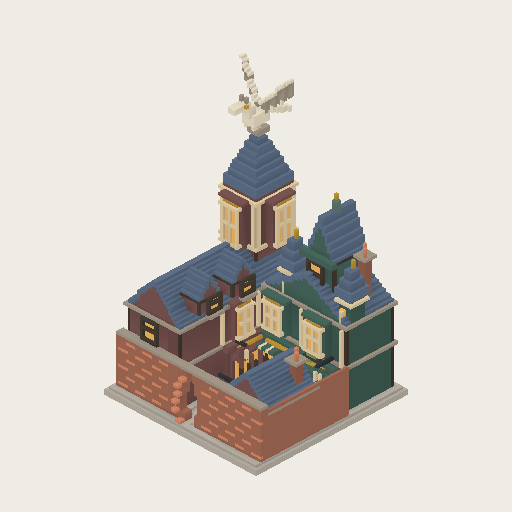
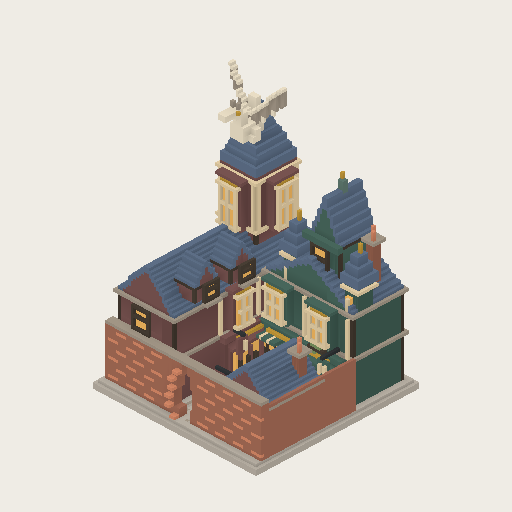
refine(diagon): make dragon cling to spire with roof-following claws and tail

Changed region(s): [[0.1875, 0.0938, 0.8125, 0.9062]]

diff --git a/src/generators/diagonAlley.js b/src/generators/diagonAlley.js
@@ -9,7 +9,7 @@ export function diagonAlleySpec() {
     cap:{type:"gable",heightVoxels:roofHeight,orientation},
     materials:{wall,roof:"slate",trim:"timber",window:"warmWindow"},facade:{enabled:false}
   });
-  const spec=createUrbanMassingSpec({id:DIAGON_ASSET_ID,seed:"diagon-alley-v5",widthCells:2,depthCells:2,
+  const spec=createUrbanMassingSpec({id:DIAGON_ASSET_ID,seed:"diagon-alley-v6",widthCells:2,depthCells:2,
     masses:[shop("wand-shop",-18,-1,22,52,29,"shopWine",12),
       shop("bookshop",12,-19,34,20,31,"shopGreen",10),
       shop("apothecary",21,15,18,20,17,"shopWine",9),
@@ -18,10 +18,13 @@ export function diagonAlleySpec() {
       shop("wine-dormer-middle",-9,0,8,9,5,"shopWine",6,32,"east_west"),
       {...shop("landmark-tower",-18,-19,14,16,28,"shopWine",18,29),
         cap:{type:"spire",heightVoxels:18}} ]});
-  return {...spec,assetId:DIAGON_ASSET_ID,assetRevision:5,footprint:{...spec.footprint,worldWidth:8,worldDepth:8}};
+  return {...spec,assetId:DIAGON_ASSET_ID,assetRevision:6,footprint:{...spec.footprint,worldWidth:8,worldDepth:8}};
 }
 
 export function addDiagonDetails(buffer) {
+  const spireSurface=new Map();
+  for(const v of buffer.voxels.values()) if(v.materialId==="slate"&&v.x>=-25&&v.x<=-12&&v.z>=-27&&v.z<=-12&&v.y>=57)
+    spireSurface.set(`${v.x},${v.z}`,Math.max(spireSurface.get(`${v.x},${v.z}`)??0,v.y));
   const write={priority:VOXEL_WRITE_PRIORITIES.decoration,owner:"diagon:details"};
   const box=(m,x,y,z,w,h,d)=>buffer.addBox(m,x,y,z,w,h,d,0,write);
   // The alley is walkable negative space, not a fourth solid building.
@@ -111,24 +114,32 @@ export function addDiagonDetails(buffer) {
   }
   for(const x of [-25,-12]) box("sandstone",x,40,-11,1,15,1);
   for(const z of [-27,-12]) box("sandstone",-11,40,z,1,15,1);
-  // Perched pale dragon replaces the tiny weather vane. Coarse silhouette
-  // first: feet, belly, raised neck, long muzzle, paired swept wings and tail.
-  box("stoneShadow",-20,75,-21,5,2,5);
-  for(const x of [-20,-17]) box("limestone",x,77,-18,1,3,3);
-  box("limestone",-20,79,-21,5,4,7);
-  box("limestone",-19,82,-16,3,4,3);
-  box("limestone",-19,85,-14,3,3,3);
-  box("limestone",-19,86,-11,3,2,4);
-  for(const x of [-19,-17]) box("stoneShadow",x,88,-13,1,2,1);
-  box("gildedMetal",-16,87,-12,1,1,1);
-  for(let i=0;i<9;i++) {
-    box("limestone",-19+Math.floor(i/4),80-Math.floor(i/3),-22-i,2,2,1);
+  // The dragon hugs the forward slope; there is no pedestal on the peak.
+  // Feet and curling tail follow the actual compiled roof heightfield.
+  box("limestone",-20,67,-18,5,5,8);
+  box("limestone",-19,71,-13,3,5,3);
+  box("limestone",-19,75,-11,3,3,3);
+  box("limestone",-19,76,-8,3,2,4);
+  for(const x of [-19,-17]) box("stoneShadow",x,78,-10,1,2,1);
+  box("gildedMetal",-16,77,-9,1,1,1);
+  for(const x of [-22,-15]) {
+    const footY=(spireSurface.get(`${x},-15`)??60)+1;
+    box("limestone",x,footY,-15,2,2,3);
+    box("limestone",x,footY+2,-15,2,Math.max(1,69-footY),2);
+    box("limestone",Math.min(x,-20),69,-15,Math.abs(x+20)+2,2,2);
+  }
+  const tail=[[-19,-19],[-20,-19],[-21,-19],[-21,-20],[-22,-20],[-23,-20],[-23,-21],[-24,-21],[-24,-22],[-24,-23],[-24,-24],[-23,-24],[-23,-25],[-22,-25],[-21,-25]];
+  let previousY=69;
+  for(const [x,z] of tail) {
+    const y=(spireSurface.get(`${x},${z}`)??57)+1;
+    box("limestone",x,Math.min(y,previousY),z,2,Math.abs(y-previousY)+2,2);
+    previousY=y;
   }
   for(const sign of [-1,1]) for(let i=1;i<=10;i++) {
     const x=-18+sign*i;
-    const y=81+Math.floor(i*.9);
-    const top=83+Math.ceil(i*1.2);
-    const z=-20-Math.floor(i/3);
+    const y=70+Math.floor(i*.9);
+    const top=72+Math.ceil(i*1.2);
+    const z=-16-Math.floor(i/3);
     box("stoneShadow",x,y,z,1,Math.max(1,top-y),1);
     box("limestone",x,top,z,1,1,2);
     if(i===4||i===7) box("limestone",x,y-1,z,1,2,1);
@@ -204,7 +215,7 @@ export function addDiagonDetails(buffer) {
 export function createDiagonAlley({cellWorldSize=4,nightLighting=0}={}) {
   const root=createVoxelMassingLab({spec:diagonAlleySpec(),renderStrategy:"greedy",nightLighting,voxelDetailPass:addDiagonDetails});
   root.name="DiagonAlley";root.scale.setScalar(cellWorldSize/4);
-  root.userData={...root.userData,assetId:DIAGON_ASSET_ID,assetRevision:5,representation:"special-landmark-voxel",
+  root.userData={...root.userData,assetId:DIAGON_ASSET_ID,assetRevision:6,representation:"special-landmark-voxel",
     sphereProjectionRoot:true,footprint:"2x2",entrance:"north",authoredParcelSize:8,voxelSize:.125};
   return root;
 }

diff --git a/test/diagonAlley.test.js b/test/diagonAlley.test.js
@@ -44,8 +44,9 @@ test("partly opening brick wall retains a narrow slit and a clear L-shaped inter
     assert.equal(buffer.getMaterialAt(-4,7,30),"brickRed","opening has displaced brick ends");
     assert.equal(buffer.getMaterialAt(-15,22,24),"shopWine");
     assert.equal(buffer.getMaterialAt(12,25,-10),"shopGreen");
-    assert.equal(buffer.getMaterialAt(-19,86,-9),"limestone","dragon has a long muzzle");
-    for(const x of [-28,-8]) assert.equal(buffer.getMaterialAt(x,95,-23),"limestone","dragon wing tips rise above the head");
+    assert.equal(buffer.getMaterialAt(-19,76,-6),"limestone","dragon has a long muzzle");
+    for(const x of [-28,-8]) assert.equal(buffer.getMaterialAt(x,84,-19),"limestone","lowered wing tips rise above the head");
+    assert.equal(buffer.getMaterialAt(-20,75,-21),null,"old peak pedestal has been removed");
   }});disposeBuildingObject(model);
 });
 

diff --git a/docs/visual-development/diagon-alley-001/README.md b/docs/visual-development/diagon-alley-001/README.md
@@ -1,10 +1,12 @@
-# 斜角巷 · 2×2 体素商业街（第五版）
+# 斜角巷 · 2×2 体素商业街（第六版）
 
 两层魔杖店、带高阁楼的书店、低矮药剂店夹出一条 L 形内部巷道，魔杖店后部增加独立高塔体量，形成地标。入口朝 +Z，地块为 8×8 世界单位。临街砖墙定格在正在打开的状态：不规则窄缝、前后错动砖端，保留隐蔽感，不含动画。巷道先向里再右转，保持第二版收窄后的布局。
 
 延续第三版整栋酒红、墨绿配色和凸窗装饰。第四版移除酒红主楼的悬挑第三层与大老虎窗，将主体降至两层，后部新增高塔：细长双面凸窗、分层檐口、陡尖顶及金属风向标。墨绿店铺的小塔作为陪衬，形成前低后高的主次关系。
 
 第五版为酒红主楼增加两扇小老虎窗，在内巷增加三处花箱、折叠遮棚、货桶与包裹。塔顶风向标替换为浅石色飞龙雕塑，采用上扬双翼、长颈吻部与尾巴，保持整数体素。512 图可辨翼形与头颈，但爪、鳞片等细节不追求；属于小尺度轮廓试作，非精细生物模型。
+
+第六版将飞龙改为攀附姿态：移除塔尖底座，身体降低到前侧坡面，双爪和卷尾依据真实屋顶高度场贴合台阶；头颈及双翼仍抬起，尖顶从身体后方露出。
 
 ![正面](front.png)
 
@@ -19,7 +21,7 @@
 - 整栋酒红、墨绿墙面，旧红砖入口，共用蓝灰板岩屋顶和暖琥珀窗光；浅砂色仅作窄饰边，不作大面积墙底。
 - 新增 `shopGreen`、`shopWine` 哑光漆木材质，用于底层店面和吊牌；使用既有 painted 表面着色，非金属、非自发光。
 - `src/generators/diagonAlley.js` 是固定资产源，复用 UrbanMassingSpec、VoxelInstanceBuffer 与 greedy meshing；所有面位于 0.125 体素网格。
-- 9192 三角形；已有/新建 2×2 斜角巷、放置预览、CPU 可视化共用工厂。非 2×2 历史记录保留旧路径。
+- 9240 三角形；已有/新建 2×2 斜角巷、放置预览、CPU 可视化共用工厂。非 2×2 历史记录保留旧路径。
 - 不改变卡牌遮蔽效果、成本或其他玩法。巷道为资产内部视觉空间，不写入城市道路网络。
 - CPU 预览采用简化日光，不完整代表游戏内 AO、动态阴影和夜间发光。
 
